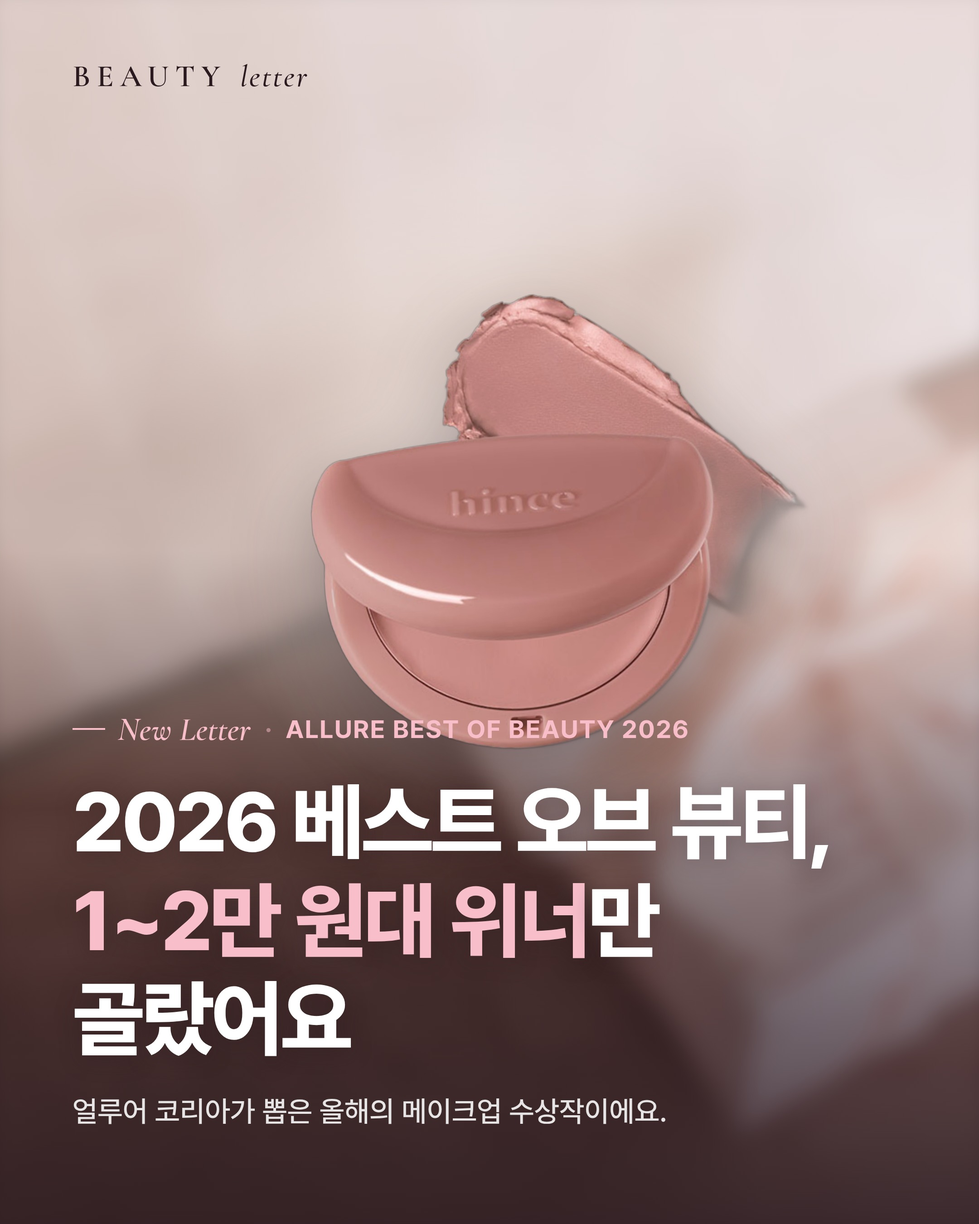
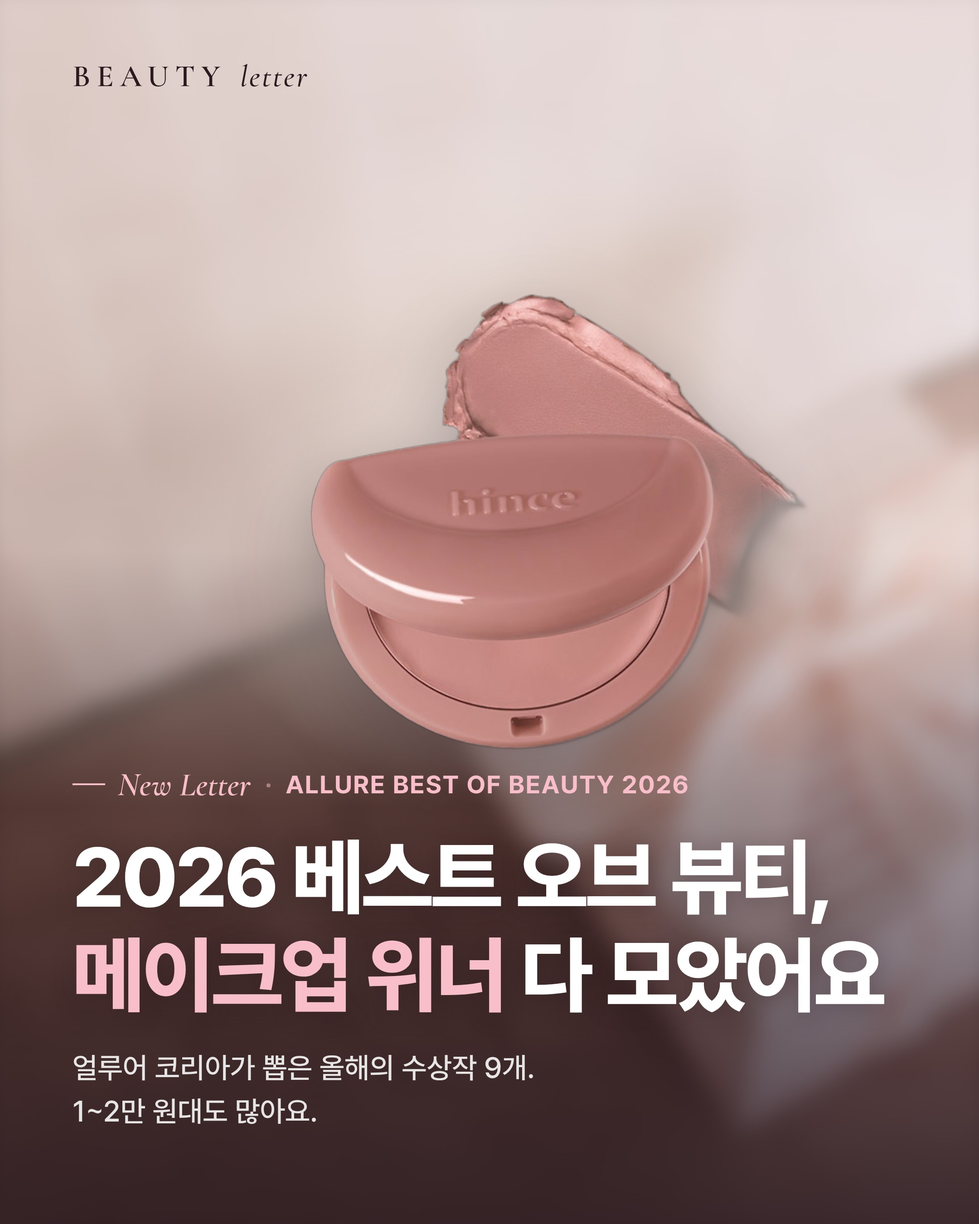
뷰티레터 10/3: 두 레터 본문 5장으로 확장, 베이지 표지 교체, 본문 최소 5장 규칙
Claude-Session: https://claude.ai/code/session_01M29FXMb16fvzM5BCrcufte

Changed region(s): [[0.062, 0.5911, 0.8995, 0.9333]]

diff --git a/design/beauty_news/letters/2026-10-03_am_bob/slides.html b/design/beauty_news/letters/2026-10-03_am_bob/slides.html
@@ -13,27 +13,48 @@
 </head><body><div class="sheet">
 <section class="card cover-scene soft" data-name="01_cover"><img class="bg" src="img/cover_bg.jpg" alt="" style="object-position:center" /><div class="veil"></div>
   <div class="glow"></div><img class="cut" src="img/hince_cut.png" alt="" /><div class="topbar"><div class="wordmark">BEAUTY <i>letter</i></div></div>
-  <div class="body"><div class="kicker"><span class="cat">New Letter</span><span class="sep">·</span><span>ALLURE BEST OF BEAUTY 2026</span></div><h1>2026 베스트 오브 뷰티,<br/><span class="em">1~2만 원대 위너</span>만 골랐어요</h1><p class="sub">얼루어 코리아가 뽑은 올해의 메이크업 수상작이에요.</p></div>
+  <div class="body"><div class="kicker"><span class="cat">New Letter</span><span class="sep">·</span><span>ALLURE BEST OF BEAUTY 2026</span></div><h1>2026 베스트 오브 뷰티,<br/><span class="em">메이크업 위너</span> 다 모았어요</h1><p class="sub">얼루어 코리아가 뽑은 올해의 수상작 9개.<br/>1~2만 원대도 많아요.</p></div>
   </section>
-<section class="card bob" data-name="02_budget"><div class="topbar"><div class="wordmark" style="font-size:26px;letter-spacing:5px">BEAUTY <i>letter</i></div><div class="pageno"><b>02</b> / 04</div></div><div class="kicker">UNDER 30,000</div><h2>부담 없이 사기 좋은<br/><span class="hl">위너 4가지</span></h2>
-<div class="grid">
- <div class="cell"><div class="pic"><img src="img/hince_cut.png" alt=""/></div><div class="aw">Best Blusher</div><b>힌스 하프 문 치크</b><span class="sh">#05 로지 문</span><p>크림과 파우더 장점을 합친 텍스처, 보송하게 픽싱돼요.</p><div class="pr">1만9천원 <em>공식몰 16,100원</em></div></div>
- <div class="cell"><div class="pic"><img src="img/tcfs_cut.png" alt="" class="slim"/></div><div class="aw">Best Eye Makeup</div><b>투쿨포스쿨 프로타주 펜슬</b><span class="sh">#22 허밍글로우</span><p>부드럽게 블렌딩, 섀도·블러셔로 멀티 사용.</p><div class="pr">1만2천원 <em>공식몰 11,400원</em></div></div>
- <div class="cell nopic"><div class="aw">Best Matte Lips</div><b>컬러그램 누디 블러 스틱</b><span class="sh">#02 너드샌드</span><p>블러 처리한 듯 매끈·보송한 매트 립, 오래 유지돼요.</p><div class="pr">1만2천원</div></div>
- <div class="cell nopic"><div class="aw">Best Lash</div><b>올리오노 글루 믹스팩 플러스</b><span class="sh">#스파이키</span><p>슬림한 A자형 + 곡선 밴드로 자연스러운 속눈썹.</p><div class="pr">2만4천원 <em>48피스+트위저</em></div></div>
+<section class="card bob2" data-name="02_all"><div class="topbar"><div class="wordmark" style="font-size:26px;letter-spacing:5px">BEAUTY <i>letter</i></div><div class="pageno"><b>02</b> / 07</div></div><div class="kicker">ALL WINNERS</div><h2>한눈에 보는<br/><span class="hl">메이크업 위너 9</span></h2>
+<div class="list tight">
+ <div class="row"><div class="aw">Best Blusher</div><div><b>힌스 하프 문 치크 #05 로지 문</b></div><div class="pr">1만9천원</div></div>
+ <div class="row"><div class="aw">Best Eye Makeup</div><div><b>투쿨포스쿨 프로타주 펜슬 #22</b></div><div class="pr">1만2천원</div></div>
+ <div class="row"><div class="aw">Best Matte Lips</div><div><b>컬러그램 누디 블러 스틱 #02</b></div><div class="pr">1만2천원</div></div>
+ <div class="row"><div class="aw">Best Glossy Lips</div><div><b>맥 러스터글래스 스테인글래스 립 틴트</b></div><div class="pr">3만8천원대</div></div>
+ <div class="row"><div class="aw">Best Lash</div><div><b>올리오노 글루 믹스팩 플러스</b></div><div class="pr">2만4천원</div></div>
+ <div class="row"><div class="aw">Best Lens</div><div><b>하파크리스틴 캣티튜드 크리스틴</b></div><div class="pr">2만5천원</div></div>
+ <div class="row"><div class="aw">Best Base &amp; Prep</div><div><b>에스쁘아 메이크업 본딩 프라이머</b></div><div class="pr">2만8천원</div></div>
+ <div class="row"><div class="aw">Best Cushion</div><div><b>탈리다쿰 화이트 단델리온 심리스 쿠션</b></div><div class="pr">6만2천원</div></div>
+ <div class="row"><div class="aw">Best Foundation</div><div><b>나스 내추럴 매트 롱웨어 파운데이션</b></div><div class="pr">8만2천원</div></div>
 </div>
-<div class="foot">* 수상작·정가: 얼루어 코리아 (2026.10.01) · 할인가: 각 공식몰 10/1 기준 · 제품 사진: 힌스·투쿨포스쿨 공식몰</div></section>
-<section class="card bob2" data-name="03_rest"><div class="topbar"><div class="wordmark" style="font-size:26px;letter-spacing:5px">BEAUTY <i>letter</i></div><div class="pageno"><b>03</b> / 04</div></div><div class="kicker">MORE WINNERS</div><h2>베이스까지 챙긴다면,<br/><span class="hl">나머지 위너 5가지</span></h2>
-<div class="list">
- <div class="row"><div class="aw">Best Base &amp; Prep</div><div><b>에스쁘아 메이크업 본딩 프라이머</b><p>피붓결 정돈 + 베이스 밀착력·지속력 UP</p></div><div class="pr">2만8천원</div></div>
- <div class="row"><div class="aw">Best Lens</div><div><b>하파크리스틴 캣티튜드 크리스틴 #레이디 베이지</b><p>우아한 베이지 컬러, 한 달용 2개</p></div><div class="pr">2만5천원</div></div>
- <div class="row"><div class="aw">Best Glossy Lips</div><div><b>맥 러스터글래스 스테인글래스 립 틴트 #씨 쉬어</b><p>풍부한 컬러 + 볼륨감</p></div><div class="pr">3만8천원대</div></div>
- <div class="row"><div class="aw">Best Cushion</div><div><b>탈리다쿰 화이트 단델리온 심리스 쿠션 #21N</b><p>덧발라도 텁텁하지 않은 맑은 베이스</p></div><div class="pr">6만2천원</div></div>
- <div class="row"><div class="aw">Best Foundation</div><div><b>나스 내추럴 매트 롱웨어 파운데이션 #몽블랑</b><p>가볍고 보송한 밀착, 결점 커버</p></div><div class="pr">8만2천원</div></div>
+<div class="foot">* 출처: 얼루어 코리아 2026 베스트 오브 뷰티 위너 '메이크업' (2026.10.01) · 정가 기준</div></section>
+<section class="card feat" data-name="03_hince"><div class="topbar"><div class="wordmark" style="font-size:26px;letter-spacing:5px">BEAUTY <i>letter</i></div><div class="pageno"><b>03</b> / 07</div></div><div class="kicker">EDITOR'S PICK</div>
+<div class="hero"><img src="img/hince_cut.png" alt="" class=""/></div>
+<div class="aw">Best Blusher</div><h2>힌스 하프 문 치크</h2><div class="sh">#05 로지 문</div>
+<p class="ds">크림과 파우더의 장점을 합친 독특한 텍스처. 피부에 부드럽게 밀착된 뒤 <b>보송하게 픽싱</b>된대요.</p>
+<div class="prices"><div><small>정가</small><b>1만9천원</b></div><div class="sale"><small>공식몰 (10/1 기준)</small><b>16,100원</b></div></div>
+<div class="tip"><span>TIP</span>손가락으로 톡톡 두드려 바르면 경계 없이 자연스럽게 퍼져요.</div>
+<div class="foot">* 수상·설명: 얼루어 코리아 (2026.10.01) · 제품 사진·할인가: 브랜드 공식몰</div></section>
+<section class="card feat" data-name="04_pencil"><div class="topbar"><div class="wordmark" style="font-size:26px;letter-spacing:5px">BEAUTY <i>letter</i></div><div class="pageno"><b>04</b> / 07</div></div><div class="kicker">EDITOR'S PICK</div>
+<div class="hero"><img src="img/tcfs_cut.png" alt="" class="slim"/></div>
+<div class="aw">Best Eye Makeup</div><h2>투쿨포스쿨 프로타주 펜슬</h2><div class="sh">#22 허밍글로우</div>
+<p class="ds">부드럽게 블렌딩되고 풍부하게 발색돼요. <b>섀도·블러셔</b>로 같이 쓸 수 있는 멀티 펜슬이에요.</p>
+<div class="prices"><div><small>정가</small><b>1만2천원</b></div><div class="sale"><small>공식몰 (10/1 기준)</small><b>11,400원</b></div></div>
+<div class="tip"><span>TIP</span>펜슬로 눈두덩에 긋고 손가락으로 펴면 섀도 브러시 없이도 끝나요.</div>
+<div class="foot">* 수상·설명: 얼루어 코리아 (2026.10.01) · 제품 사진·할인가: 브랜드 공식몰</div></section>
+<section class="card vs" data-name="05_lips"><div class="topbar"><div class="wordmark" style="font-size:26px;letter-spacing:5px">BEAUTY <i>letter</i></div><div class="pageno"><b>05</b> / 07</div></div><div class="kicker">LIP WINNERS</div><h2>매트 vs 글로시,<br/><span class="hl">내 취향은?</span></h2>
+<div class="two">
+ <div class="side"><div class="aw">Best Matte Lips</div><b>컬러그램<br/>누디 블러 스틱</b><span class="sh">#02 너드샌드</span><p>블러 처리한 듯 <em>매끈하고 보송한</em> 발색, 오래 유지되는 매트 립.</p><div class="pr">1만2천원</div><div class="for">이런 분께 · 하루 종일 덧바르기 귀찮은 분</div></div>
+ <div class="side"><div class="aw">Best Glossy Lips</div><b>맥 러스터글래스<br/>스테인글래스 립 틴트</b><span class="sh">#씨 쉬어</span><p>보이는 그대로 <em>풍부한 컬러</em>에 볼륨감까지 더해 주는 립 틴트.</p><div class="pr">3만8천원대</div><div class="for">이런 분께 · 도톰하고 촉촉한 입술 연출</div></div>
 </div>
-<div class="foot">* 출처: 얼루어 코리아 2026 베스트 오브 뷰티 위너 '메이크업' (2026.10.01)</div></section>
+<div class="foot">* 출처: 얼루어 코리아 (2026.10.01)</div></section>
+<section class="card steps" data-name="06_base"><div class="topbar"><div class="wordmark" style="font-size:26px;letter-spacing:5px">BEAUTY <i>letter</i></div><div class="pageno"><b>06</b> / 07</div></div><div class="kicker">BASE WINNERS</div><h2>베이스 위너로<br/><span class="hl">순서대로 쌓기</span></h2>
+<div class="st"><div class="n">01</div><div><div class="aw">Best Base &amp; Prep</div><b>에스쁘아 메이크업 본딩 프라이머 · 2만8천원</b><p>피붓결을 매끈하게 정돈하고 요철 커버. 베이스 밀착력·지속력을 높여줘요.</p></div></div>
+<div class="st"><div class="n">02</div><div><div class="aw">Best Cushion</div><b>탈리다쿰 심리스 쿠션 #21N · 6만2천원</b><p>여러 번 덧발라도 텁텁하지 않은 맑고 투명한 베이스. 촉촉한 피부라면 이쪽.</p></div></div>
+<div class="st"><div class="n">03</div><div><div class="aw">Best Foundation</div><b>나스 내추럴 매트 롱웨어 #몽블랑 · 8만2천원</b><p>가볍고 보송하게 밀착, 결점을 자연스럽게 가려줘요. 유분이 고민이라면 이쪽.</p></div></div>
+<div class="foot">* 제품 설명: 얼루어 코리아 (2026.10.01) · 피부 타입 추천은 에디터 의견</div></section>
 
-<section class="card ps" data-name="04_ps"><div class="bgimg"><img src="img/cover_bg.jpg" alt="" /><img class="cut" src="img/hince_cut.png" alt="" /></div><div class="wordmark">BEAUTY <i>letter</i></div>
+<section class="card ps" data-name="07_ps"><div class="bgimg"><img src="img/cover_bg.jpg" alt="" /><img class="cut" src="img/hince_cut.png" alt="" /></div><div class="wordmark">BEAUTY <i>letter</i></div>
   <div class="inner"><div class="ps-mark">P.S.</div><div class="note"><div class="label">에디터의 한 줄 팁</div><p>처음이라면 <b>멀티로 쓰는 아이템</b>부터. 프로타주 펜슬은 섀도·블러셔로,<br/>하프 문 치크는 볼과 눈두덩에 같이 써도 잘 어울려요.</p></div>
   <div class="bye"><h2>다음 레터에서<br/><em>만나요</em></h2><p><i></i>저장해두고 쇼핑할 때 꺼내보세요</p><div><span class="follow">@from.beautyletter 팔로우</span></div></div></div>
   <div class="credit">참고: 얼루어 코리아 (2026.10.01) · 제품 사진: 힌스·투쿨포스쿨 공식몰</div></section>

diff --git a/design/beauty_news/letters/2026-10-03_pm_beige/slides.html b/design/beauty_news/letters/2026-10-03_pm_beige/slides.html
@@ -14,15 +14,24 @@
 <section class="card cover-photo" data-name="01_cover"><div data-slot="photo"><img src="img/cover_photo.jpg" alt="" style="object-position:center 35%" /></div><div class="shade"></div><div class="topbar"><div class="wordmark">BEAUTY <i>letter</i></div></div>
   <div class="body"><div class="kicker"><span class="cat">Color Letter</span><span class="sep">·</span><span>BEIGE MAKEUP</span></div><h1>올가을은 베이지,<br/><span class="em">내 톤엔 어떤 베이지?</span></h1><p class="sub">같은 베이지도 톤에 따라 달라 보여요.<br/>칙칙하지 않게 고르는 법을 담았어요.</p></div>
   </section>
-<section class="card swatchset" data-name="02_tone"><div class="topbar"><div class="wordmark" style="font-size:26px;letter-spacing:5px">BEAUTY <i>letter</i></div><div class="pageno"><b>02</b> / 04</div></div><div class="kicker">TONE CHECK</div><h2>웜톤 베이지,<br/><span class="hl">쿨톤 베이지</span></h2>
+<section class="card swatchset" data-name="02_tone"><div class="topbar"><div class="wordmark" style="font-size:26px;letter-spacing:5px">BEAUTY <i>letter</i></div><div class="pageno"><b>02</b> / 07</div></div><div class="kicker">TONE CHECK</div><h2>웜톤 베이지,<br/><span class="hl">쿨톤 베이지</span></h2>
   <div class="group"><div class="gl">웜톤이라면<small>노란기·주황기 도는 베이지</small></div><div class="chips"><div class="chip"><i style="background:#D9B48F"></i><b>카멜 베이지</b><span>가을 웜 데일리</span></div><div class="chip"><i style="background:#E2A98C"></i><b>코랄 베이지</b><span>봄 웜 혈색</span></div><div class="chip"><i style="background:#C99A6B"></i><b>골드 베이지</b><span>섀도 베이스</span></div><div class="chip"><i style="background:#B7745A"></i><b>브릭 베이지</b><span>립 포인트</span></div></div></div><div class="group"><div class="gl">쿨톤이라면<small>분홍기·회색기 도는 베이지</small></div><div class="chips"><div class="chip"><i style="background:#D8B0A8"></i><b>로즈 베이지</b><span>여름 쿨 데일리</span></div><div class="chip"><i style="background:#E6C3BE"></i><b>핑크 베이지</b><span>맑은 립</span></div><div class="chip"><i style="background:#C8B8AE"></i><b>그레이지</b><span>섀도 베이스</span></div><div class="chip"><i style="background:#B08F93"></i><b>모브 베이지</b><span>겨울 쿨 포인트</span></div></div></div>
   <div class="note">고민될 땐 <b>핑크 베이지</b>부터. 톤을 크게 타지 않는 편이에요.</div>
   <div class="foot">* 일반적인 퍼스널컬러 기준의 예시 컬러예요. 같은 톤 안에서도 차이가 있어요.</div></section>
-<section class="card points" data-name="03_howto"><div class="topbar"><div class="wordmark" style="font-size:26px;letter-spacing:5px">BEAUTY <i>letter</i></div><div class="pageno"><b>03</b> / 04</div></div><div class="kicker">HOW TO</div><h2>베이지가 칙칙해 보이지 않게,<br/><span class="hl">3가지만</span> 기억해요</h2>
+<section class="card points" data-name="03_check"><div class="topbar"><div class="wordmark" style="font-size:26px;letter-spacing:5px">BEAUTY <i>letter</i></div><div class="pageno"><b>03</b> / 07</div></div><div class="kicker">SELF CHECK</div><h2>내 톤을 모르겠다면,<br/><span class="hl">30초 체크</span>부터</h2>
+  <div class="items"><div class="item"><div class="n">01</div><div><h3>손목 안쪽 혈관 색</h3><p>초록빛이 더 많이 보이면 <b>웜톤</b>, 파랗거나 보랏빛이면 <b>쿨톤</b> 쪽일 가능성이 높아요.</p></div></div><div class="item"><div class="n">02</div><div><h3>골드 vs 실버 액세서리</h3><p>골드가 얼굴을 환하게 해주면 <b>웜톤</b>, 실버가 더 깔끔해 보이면 <b>쿨톤</b>에 가까워요.</p></div></div><div class="item"><div class="n">03</div><div><h3>둘 다 애매하다면</h3><p><b>뉴트럴</b>일 수 있어요. 이럴 땐 핑크 베이지처럼 중간 베이지가 제일 안전해요.</p></div></div></div>
+  <div class="foot">* 간단한 자가 체크예요. 정확한 진단은 전문 진단을 받아보세요.</div></section>
+<section class="card points" data-name="04_lip"><div class="topbar"><div class="wordmark" style="font-size:26px;letter-spacing:5px">BEAUTY <i>letter</i></div><div class="pageno"><b>04</b> / 07</div></div><div class="kicker">BEIGE LIP</div><h2>베이지 립,<br/><span class="hl">톤별로</span> 이렇게 골라요</h2>
+  <div class="items"><div class="item"><div class="n">01</div><div><h3>웜톤 · 코랄·카멜 베이지</h3><p>주황기가 살짝 도는 베이지가 얼굴을 따뜻하고 화사하게 밝혀줘요.</p></div></div><div class="item"><div class="n">02</div><div><h3>쿨톤 · 로즈·핑크 베이지</h3><p>분홍기가 섞인 베이지를 고르면 입술이 창백해 보이지 않아요.</p></div></div><div class="item"><div class="n">03</div><div><h3>공통 · 너무 하얀 누드는 피하기</h3><p>흰기가 많은 누드 베이지는 <b>입술이 떠 보이기 쉬워요.</b> 피부보다 한 톤 진하게 골라요.</p></div></div></div>
+  </section>
+<section class="card points" data-name="05_eye"><div class="topbar"><div class="wordmark" style="font-size:26px;letter-spacing:5px">BEAUTY <i>letter</i></div><div class="pageno"><b>05</b> / 07</div></div><div class="kicker">BEIGE EYE</div><h2>베이지 섀도,<br/><span class="hl">한 끗 차이</span>는 여기서</h2>
+  <div class="items"><div class="item"><div class="n">01</div><div><h3>웜톤 · 골드 베이지 + 브라운</h3><p>골드빛 베이지로 눈두덩을 채우고 <b>브라운</b>으로 눈꼬리만 살짝 눌러요.</p></div></div><div class="item"><div class="n">02</div><div><h3>쿨톤 · 그레이지 + 모브</h3><p>회색기 도는 <b>그레이지</b>를 베이스로, 음영은 모브 브라운으로 잡아요.</p></div></div><div class="item"><div class="n">03</div><div><h3>공통 · 펄은 눈 중앙에만</h3><p>베이지는 넓게 펴고, 펄은 <b>눈동자 위 중앙</b>에만 올려야 부어 보이지 않아요.</p></div></div></div>
+  </section>
+<section class="card points" data-name="06_howto"><div class="topbar"><div class="wordmark" style="font-size:26px;letter-spacing:5px">BEAUTY <i>letter</i></div><div class="pageno"><b>06</b> / 07</div></div><div class="kicker">HOW TO</div><h2>베이지가 칙칙해 보이지 않게,<br/><span class="hl">3가지만</span> 기억해요</h2>
   <div class="items"><div class="item"><div class="n">01</div><div><h3>립은 혈색 섞인 베이지로</h3><p>완전 누드 베이지보다 <b>핑크나 코랄이 살짝 섞인</b> 베이지가 얼굴을 밝혀줘요.</p></div></div><div class="item"><div class="n">02</div><div><h3>눈에는 펄 한 겹</h3><p>매트 베이지만 쓰면 밋밋해요. 눈두덩 중앙에 <b>펄 한 겹</b>이면 충분해요.</p></div></div><div class="item"><div class="n">03</div><div><h3>치크는 빼지 말고 얇게</h3><p>베이지 메이크업일수록 <b>혈색 치크</b>를 얇게 깔아야 생기가 살아요.</p></div></div></div>
   </section>
 
-<section class="card ps" data-name="04_ps"><div class="bgimg"><img src="img/cover_photo.jpg" alt="" /></div><div class="wordmark">BEAUTY <i>letter</i></div>
+<section class="card ps" data-name="07_ps"><div class="bgimg"><img src="img/cover_photo.jpg" alt="" /></div><div class="wordmark">BEAUTY <i>letter</i></div>
   <div class="inner"><div class="ps-mark">P.S.</div><div class="note"><div class="label">에디터의 한 줄 팁</div><p>베이지 립을 바를 땐 <b>입술 안쪽에만 혈색 틴트</b>를 콕.<br/>같은 베이지도 훨씬 생기 있어 보여요.</p></div>
   <div class="bye"><h2>다음 레터에서<br/><em>만나요</em></h2><p><i></i>저장해두고 쇼핑할 때 꺼내보세요</p><div><span class="follow">@from.beautyletter 팔로우</span></div></div></div>
   <div class="credit">컬러칩은 이해를 돕기 위한 예시예요</div></section>

diff --git a/design/beauty_news/letters/2026-10-03_am_bob/extra.css b/design/beauty_news/letters/2026-10-03_am_bob/extra.css
@@ -21,3 +21,56 @@
 .bob2 .row p { font-size: 24px; color: var(--mauve); margin-top: 6px; }
 .bob2 .pr { font-size: 27px; font-weight: 800; white-space: nowrap; }
 .bob .foot, .bob2 .foot { position: absolute; left: var(--pad); right: var(--pad); bottom: 50px; font-size: 20px; color: var(--mauve); line-height: 1.4; }
+
+.bob2 .list.tight { gap: 10px; }
+.bob2 .list.tight .row { padding: 20px 28px; grid-template-columns: 200px 1fr auto; }
+.bob2 .list.tight .row b { font-size: 26px; }
+.feat { padding: 170px var(--pad) 0; }
+.feat .hero { height: 380px; display: flex; align-items: center; justify-content: center; margin: 10px 0 20px; background: radial-gradient(circle, #fff 0%, rgba(255,255,255,0) 68%); }
+.feat .hero img { max-height: 360px; max-width: 520px; filter: drop-shadow(0 20px 30px rgba(90,50,55,.18)); }
+.feat .hero img.slim { max-height: 420px; transform: rotate(35deg); }
+.feat .aw { font-family: var(--serif); font-style: italic; font-size: 32px; font-weight: 600; color: var(--rose); }
+.feat h2 { font-size: 62px; font-weight: 800; letter-spacing: -2px; margin: 6px 0 4px; }
+.feat .sh { font-size: 28px; color: var(--mauve); font-weight: 600; }
+.feat .ds { font-size: 29px; line-height: 1.55; color: #4b3a40; margin: 22px 0 26px; }
+.feat .ds b { color: var(--rose); }
+.feat .prices { display: grid; grid-template-columns: 1fr 1fr; gap: 16px; }
+.feat .prices > div { background: var(--white); border-radius: 22px; padding: 20px 26px; }
+.feat .prices small { display: block; font-size: 21px; color: var(--mauve); font-weight: 600; }
+.feat .prices b { font-size: 40px; font-weight: 800; }
+.feat .prices .sale b { color: var(--rose); }
+.feat .tip { margin-top: 18px; font-size: 25px; line-height: 1.5; color: var(--plum); background: var(--blush); border-radius: 18px; padding: 18px 24px; }
+.feat .tip span { font-weight: 800; color: var(--rose); margin-right: 12px; }
+.feat .foot, .vs .foot, .steps .foot { position: absolute; left: var(--pad); right: var(--pad); bottom: 50px; font-size: 20px; color: var(--mauve); }
+.vs, .steps { padding: 170px var(--pad) 0; }
+.vs h2, .steps h2 { font-size: 64px; font-weight: 800; letter-spacing: -2px; line-height: 1.2; margin: 22px 0 40px; }
+.vs .two { display: grid; grid-template-columns: 1fr 1fr; gap: 20px; }
+.vs .side { background: var(--white); border-radius: 26px; padding: 34px 30px; }
+.vs .side:last-child { background: var(--plum); color: var(--white); }
+.vs .aw, .steps .aw { font-family: var(--serif); font-style: italic; font-size: 28px; font-weight: 600; color: var(--rose); }
+.vs .side:last-child .aw, .vs .side:last-child em { color: var(--petal); }
+.vs .side b { display: block; font-size: 36px; font-weight: 800; line-height: 1.25; margin: 12px 0 8px; letter-spacing: -1px; }
+.vs .sh { font-size: 24px; opacity: .7; }
+.vs .side p { font-size: 26px; line-height: 1.55; margin: 22px 0; }
+.vs .side em { font-style: normal; font-weight: 800; color: var(--rose); }
+.vs .pr { font-size: 36px; font-weight: 800; }
+.vs .for { margin-top: 22px; font-size: 22px; font-weight: 600; opacity: .75; line-height: 1.45; }
+.steps .st { display: grid; grid-template-columns: 90px 1fr; gap: 20px; background: var(--white); border-radius: 24px; padding: 30px 32px; margin-bottom: 18px; }
+.steps .n { font-family: var(--serif); font-style: italic; font-size: 60px; font-weight: 600; color: var(--rose); line-height: .9; }
+.steps .st b { display: block; font-size: 29px; font-weight: 800; margin: 6px 0 8px; }
+.steps .st p { font-size: 25px; line-height: 1.5; color: #4b3a40; }
+/* 크기 보정 */
+.bob2 .list.tight .row { padding: 24px 30px; }
+.bob2 .list.tight .row b { font-size: 28px; }
+.bob2 .list.tight .aw { font-size: 26px; }
+.feat .hero { height: 450px; }
+.feat .hero img { max-height: 440px; max-width: 640px; }
+.feat .hero img.slim { max-height: 560px; max-width: none; }
+.vs .side { padding: 44px 34px; min-height: 640px; }
+.vs .side b { font-size: 40px; }
+.vs .side p { font-size: 28px; }
+.vs .pr { font-size: 40px; }
+.vs .for { font-size: 25px; }
+.steps .st { padding: 40px 36px; margin-bottom: 22px; }
+.steps .st b { font-size: 31px; }
+.steps .st p { font-size: 27px; }

diff --git a/design/beauty_news/DESIGN_GUIDE.md b/design/beauty_news/DESIGN_GUIDE.md
@@ -54,7 +54,7 @@
 | opt_A_tone_meter | 선택 장: 톤 온도계 | 컬러가 여러 개이고 공식 컬러차트가 있을 때만. 출처 표기 필수 |
 | opt_B_personal_color | 선택 장: 퍼스널컬러 매칭 | 컬러 정보가 중요한 레터에만. 에디터 추천임을 표기 |
 
-고정 구조는 **표지(01 또는 02) → … → P.S.(08)** 입니다. 오늘의 요약 장은 넣지 않고(2026-10-01 결정), 요약은 캡션 앞부분에 짧게 씁니다. 핵심 정보 장은 표지 바로 다음(2번째 장)에 둡니다. 가운데는 주제에 맞는 장만 골라 넣고, 전체는 9장 안쪽으로 맞춥니다.
+고정 구조는 **표지(01 또는 02) → … → P.S.(08)** 입니다. 오늘의 요약 장은 넣지 않고(2026-10-01 결정), 요약은 캡션 앞부분에 짧게 씁니다. 핵심 정보 장은 표지 바로 다음(2번째 장)에 둡니다. **본문은 표지·P.S.를 빼고 최소 5장**(2026-10-01 사용자 결정), 전체는 7~9장으로 맞춥니다.
 선택 장 A·B는 컬러 정보가 중요한 레터에만, 둘 중 어울리는 하나를 고릅니다. 공식 컬러차트를 근거로 쓰면 출처를 꼭 적습니다.
 
 | 카테고리 | 추천 조합 |

diff --git a/design/beauty_news/letters/2026-10-03_pm_beige/sources.md b/design/beauty_news/letters/2026-10-03_pm_beige/sources.md
@@ -2,7 +2,7 @@
 
 | 항목 | 출처 |
 |---|---|
-| img/cover_photo.jpg | Pexels 무료 사진 "Coffee Cup and Autumn Leaves on a Sweater" (Ioana Motoc) https://www.pexels.com/photo/coffee-cup-and-autumn-leaves-on-a-sweater-14408237/ |
+| img/cover_photo.jpg | Topview AI 생성 이미지 (Nano Banana 2 Lite, 2026-10-01, 0.3크레딧). 브랜드 없는 베이지 스와치 플랫레이 |
 
 - 톤별 컬러칩은 일반적인 퍼스널컬러 기준의 예시 색 (공식 자료 아님) → 카드에 표기.
 - HOW TO 3가지와 P.S.는 에디터 일반 팁.
